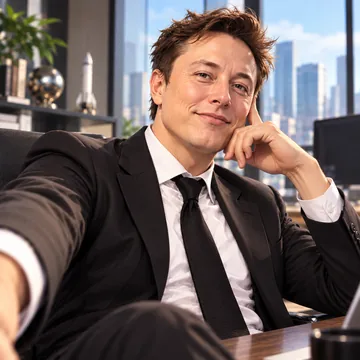
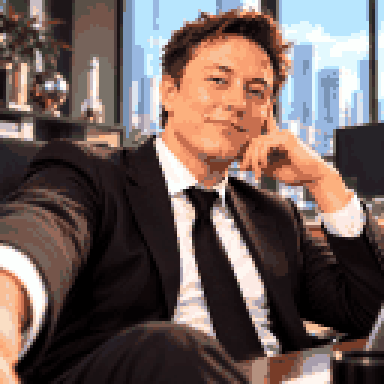
編集長の画像をドット絵風に加工
Claude-Session: https://claude.ai/code/session_01N9UH7aPas3bYDXNeJrASUj

diff --git a/index.html b/index.html
@@ -543,7 +543,7 @@ button:disabled{opacity:.45;cursor:not-allowed}
 <div class="overlay" id="ov-edi" hidden style="z-index:30">
   <div class="modal" role="dialog" aria-modal="true" aria-label="ヒヨッター編集長からの賞与" style="text-align:center">
     <img src="img/logo_hiyotter.webp" width="119" height="26" alt="ヒヨッター" style="align-self:center;height:26px;width:auto">
-    <img id="edi-img" src="img/editor.webp" width="180" height="180" alt="ヒヨッター編集長" style="align-self:center;width:180px;height:180px;object-fit:cover;border-radius:12px;border:2px solid var(--line,#8a6a4a)" onerror="this.hidden=true"><h2 style="margin:0">📬 編集長から賞与が届いた！</h2>
+    <img id="edi-img" src="img/editor.webp" width="180" height="180" alt="ヒヨッター編集長" style="align-self:center;width:180px;height:180px;object-fit:cover;border-radius:12px;border:2px solid var(--line,#8a6a4a);image-rendering:pixelated" onerror="this.hidden=true"><h2 style="margin:0">📬 編集長から賞与が届いた！</h2>
     <p style="margin:0;font-size:1.5em"><b id="edi-amt"></b></p>
     <p class="hint" id="edi-who" style="margin:0"></p>
     <p style="margin:0;font-size:1.15em"><b>「<span style="white-space:nowrap">アナタノ、コレカラノ、</span><span style="white-space:nowrap">カツヤクニ、キタイシマス！</span>」</b></p>
@@ -1781,7 +1781,7 @@ addEventListener('pagehide',save);
 // 開きっぱなしのタブが古いコードのまま保存し直して、新しい保存項目を失うのを防ぐ。
 // 実行中のコードに埋め込んだ版の識別子 APP_V と、いま配信されている index.html の APP_V を比べる（最初に取れた配信内容を「実行中の版」の代わりにしない）。
 // ★ APP_V は index.html の内容から計算する。index.html を変えたら `node qa/stamp.cjs` で更新する（忘れると監査テストが失敗する）。
-const APP_V='2a0dc5ea6f63';
+const APP_V='2cc23278b8c9';
 // 旅・戦闘・結果画面（INTRIP）の間は、save() が保存を見送るので、再読み込みすると進行が巻き戻る。旅が終わったあとも trip / B には前回の値が残るため、これらは見ない
 const UPD={pending:'',busy:false,scheduled:false,last:0,every:600000,quiet:600000,timeout:15000,reloadedAt:0,note:null,timer:0,
  safe:()=>!INTRIP,
